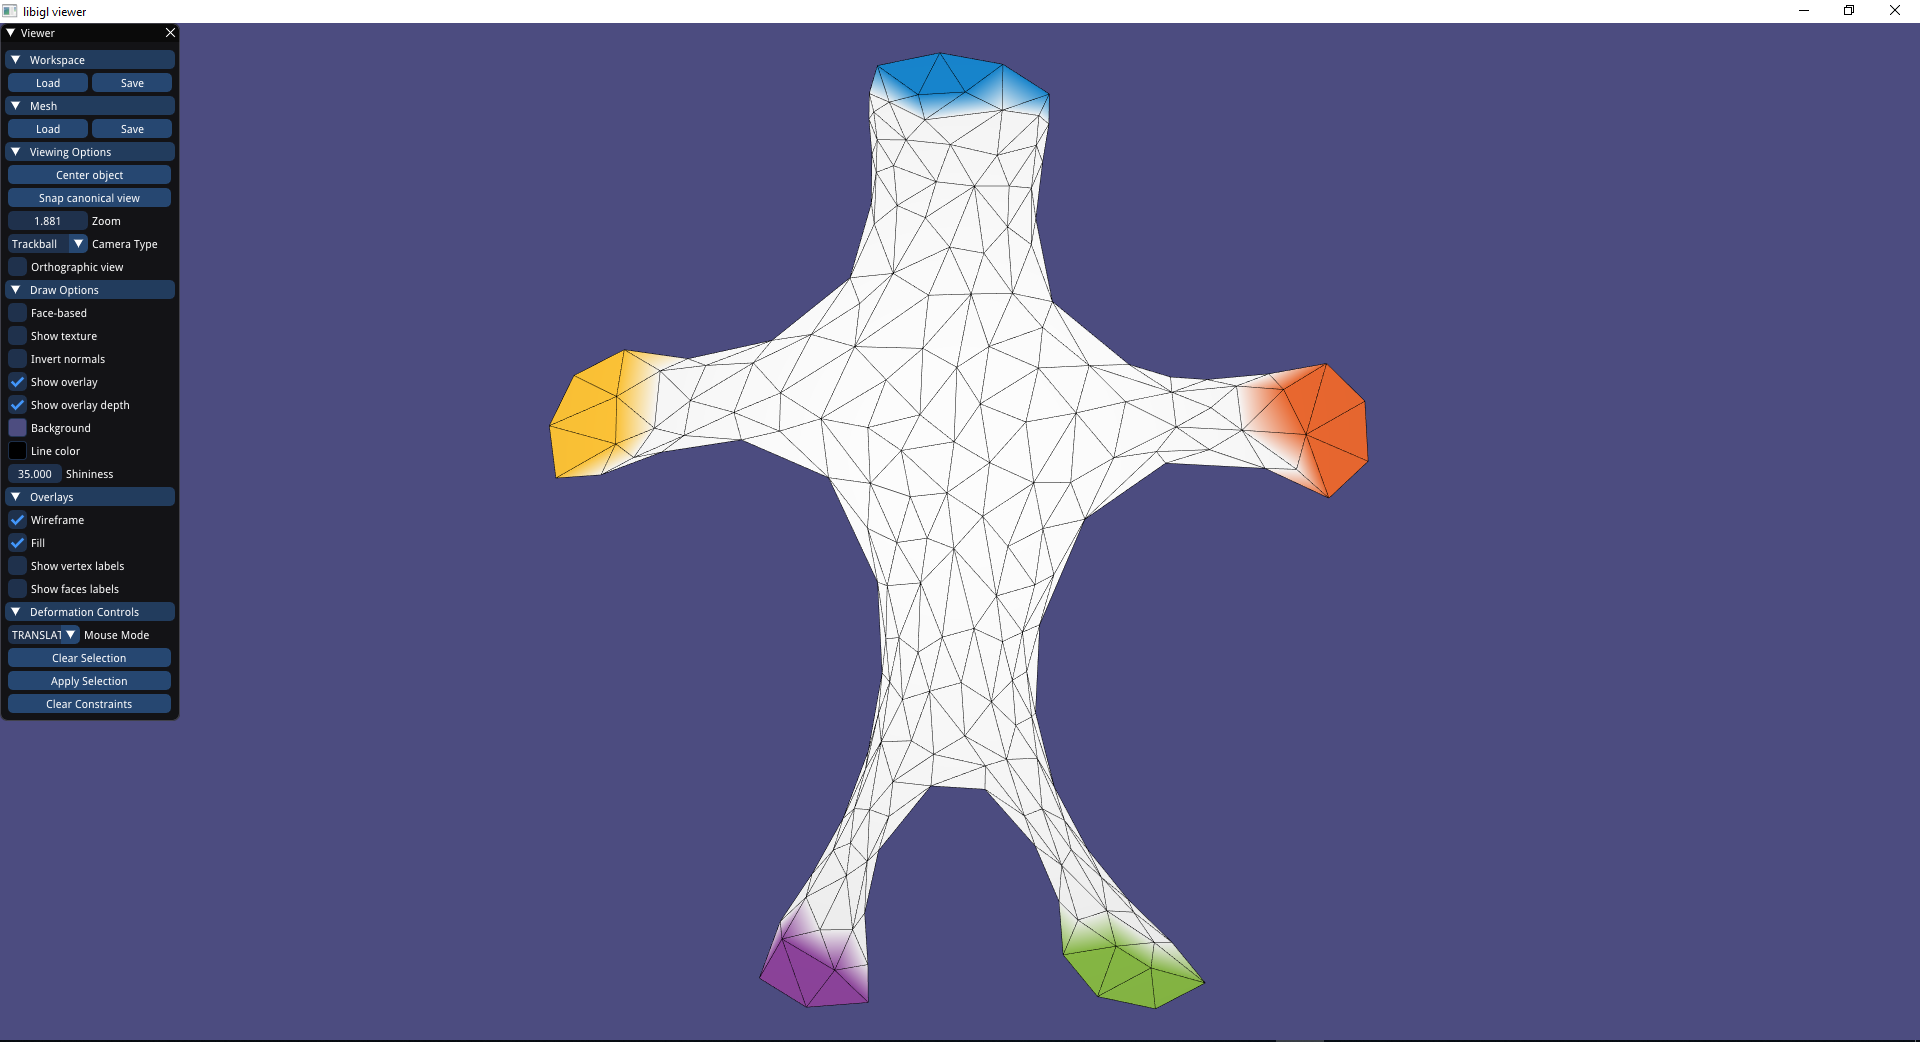
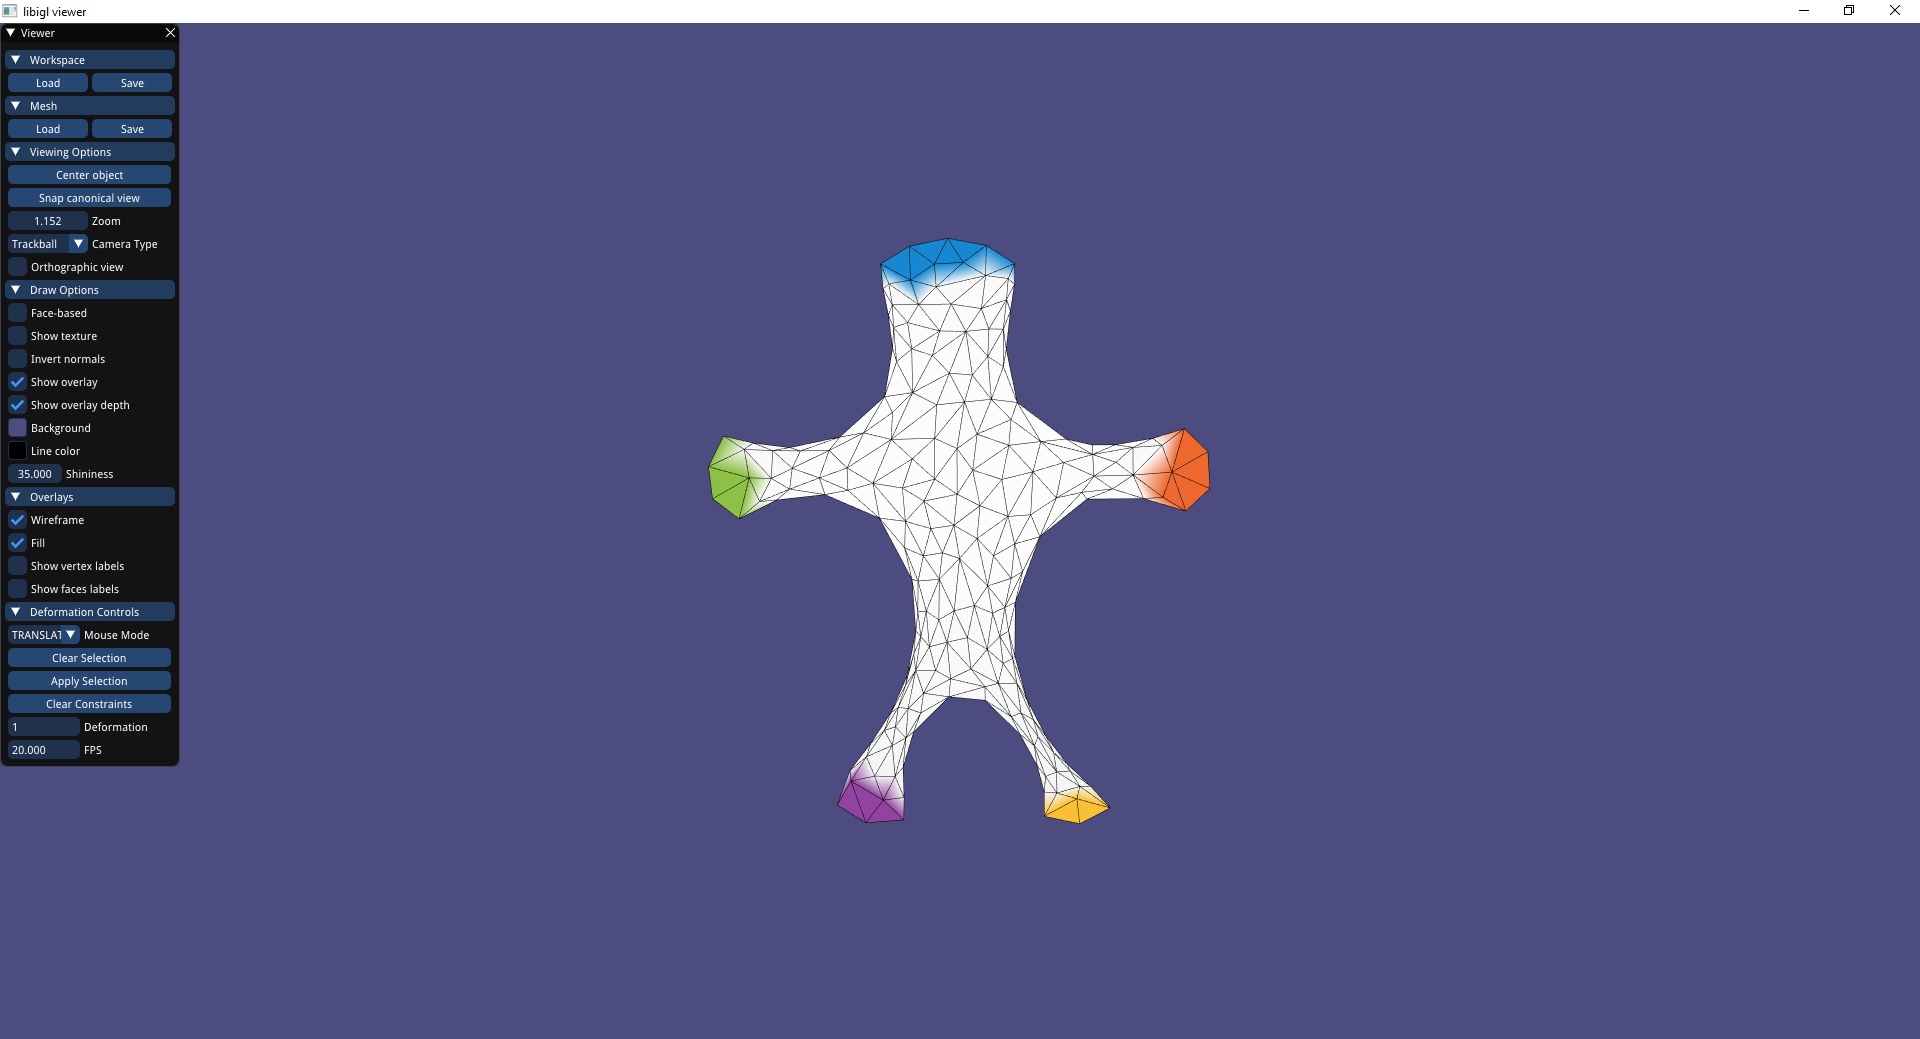
Update

Changed region(s): [[0.0, 0.0308, 1.0, 1.0], [0.0, 0.3388, 0.0938, 0.7392], [0.0, 0.1232, 0.0938, 0.308]]

diff --git a/assignment4/src/main.cpp b/assignment4/src/main.cpp
@@ -7,7 +7,9 @@
 #include <igl/slice_into.h>
 #include <igl/rotate_by_quat.h>
 #include <igl/cotmatrix.h>
-
+#include <igl/per_vertex_normals.h>
+#include <igl/cross.h>
+#include <ctime>
 // ...
 
 #include "Lasso.h"
@@ -48,7 +50,12 @@ Eigen::VectorXi free_vertices(0, 1);
 // fcc and fvv matrix
 SparseMatrix<double> A;
 // Deformation mesh selector
-int Deformation = 0;
+int Deformation = 3;
+// For step 1.4 calculations
+std::vector<std::vector<int>> VV;
+// FPS measurements
+clock_t  oldTime = std::clock();
+float fps = 0;
 
 //centroids of handle regions, #H x1
 Eigen::MatrixXd handle_centroids(0,3);
@@ -96,6 +103,11 @@ SparseMatrix<double> Inverse(SparseMatrix<double> A)
 
 bool solve(Viewer& viewer)
 {
+
+	std::clock_t newTime = std::clock();
+	fps = 1.0 / ((newTime - oldTime) / (double)CLOCKS_PER_SEC);
+	oldTime = newTime;
+
 	/**** Add your code for computing the deformation from handle_vertex_positions and handle_vertices here (replace following line) ****/
 
 	if (Deformation == 0) {
@@ -136,8 +148,71 @@ bool solve(Viewer& viewer)
 	Eigen::MatrixXd b = -1 * A_fc * handle_vertex_positions_previous;
 	MatrixXd v_f = solver.solve(b);
 
+	Eigen::MatrixXd V_S(V.rows(), 3);
+	V_S = V;
+
 	igl::slice_into(v_f, free_vertices, 1, V);
-	
+
+	Eigen::MatrixXd V_B(V.rows(), 3);
+	V_B = V;
+
+	Eigen::MatrixXd d(V.rows(), 3);
+	d = V_S - V_B;
+
+	Eigen::MatrixXd n;
+	igl::per_vertex_normals(V_B, F, n);
+
+	Eigen::MatrixXd x(0, 3);
+	x.setZero(V.rows(), 3);
+
+	Eigen::MatrixXd y(0, 3);
+	y.setZero(V.rows(), 3);
+
+	for (int i = 0; i < V.rows(); i++) {
+
+		Eigen::RowVector3d Vi = V_B.row(i);
+
+		Eigen::RowVector3d ni = n.row(i);
+		ni.normalize();
+
+		for (int j : VV[i]) {
+
+			Eigen::RowVector3d Vj = V_B.row(j);
+
+			Eigen::RowVector3d Vj_temp1;
+			igl::cross(Vj, ni, Vj_temp1);
+			Vj_temp1.normalize();
+
+			Eigen::RowVector3d Vj_temp2;
+			igl::cross(ni, Vj_temp1, Vj_temp2);
+			Vj_temp2.normalize();
+
+			Eigen::RowVector3d Vj_proj = Vj_temp2 * Vj.dot(Vj_temp2);
+
+			if (Vj_proj.norm() > x.row(i).norm()) {
+				x.row(i) = Vj_proj;
+			}
+
+		}
+
+		Eigen::RowVector3d xi;
+		xi = x.row(i);
+		xi.normalize();
+		x.row(i) = xi;
+
+		Eigen::RowVector3d yi;
+		igl::cross(ni, xi, yi);
+		
+		y.row(i) = yi;
+
+		Eigen::RowVector3d di;
+		di = d.row(i);
+
+		di = di.dot(xi) * xi + di.dot(yi) * yi + di.dot(ni) * ni;
+		d.row(i) = di;
+
+	}
+
 	if (Deformation == 1) {
 		return true;
 	}
@@ -150,11 +225,70 @@ bool solve(Viewer& viewer)
 	igl::slice_into(v_f, free_vertices, 1, V);
 	igl::slice_into(handle_vertex_positions, handle_vertices, 1, V);
 
+	Eigen::MatrixXd V_B_tag(V.rows(), 3);
+	V_B_tag = V;
+
+	Eigen::MatrixXd n_tag;
+	igl::per_vertex_normals(V_B_tag, F, n_tag);
+
+	Eigen::MatrixXd x_tag(0, 3);
+	x_tag.setZero(V.rows(), 3);
+
+	Eigen::MatrixXd y_tag(0, 3);
+	y_tag.setZero(V.rows(), 3);
+
+	for (int i = 0; i < V.rows(); i++) {
+
+		Eigen::RowVector3d Vi = V_B_tag.row(i);
+
+		Eigen::RowVector3d ni = n_tag.row(i);
+		ni.normalize();
+
+		for (int j : VV[i]) {
+
+			Eigen::RowVector3d Vj = V_B_tag.row(j);
+
+			Eigen::RowVector3d Vj_temp1;
+			igl::cross(Vj, ni, Vj_temp1);
+			Vj_temp1.normalize();
+
+			Eigen::RowVector3d Vj_temp2;
+			igl::cross(ni, Vj_temp1, Vj_temp2);
+			Vj_temp2.normalize();
+
+			Eigen::RowVector3d Vj_proj = Vj_temp2 * Vj.dot(Vj_temp2);
+
+			if (Vj_proj.norm() > x_tag.row(i).norm()) {
+				x_tag.row(i) = Vj_proj;
+			}
+
+		}
+
+		Eigen::RowVector3d xi;
+		xi = x_tag.row(i);
+		xi.normalize();
+		x_tag.row(i) = xi;
+
+		Eigen::RowVector3d yi;
+		igl::cross(ni, xi, yi);
+
+		y_tag.row(i) = yi;
+
+		Eigen::RowVector3d di;
+		di = d.row(i);
+
+		di = di.dot(xi) * xi + di.dot(yi) * yi + di.dot(ni) * ni;
+		d.row(i) = di;
+
+	}
+
 	if (Deformation == 2) {
 		return true;
 	}
 
 	// 1.4 Transferring high-frequecny details to the deformed surface
+
+	V = V_B_tag + d;
 
 	return true;
 };
@@ -226,6 +360,8 @@ int main(int argc, char *argv[])
 
   A = L_w * Inverse(M) * L_w;
 
+  igl::adjacency_list(F, VV);
+
   igl::opengl::glfw::imgui::ImGuiMenu menu;
   viewer.plugins.push_back(&menu);
 
@@ -260,6 +396,8 @@ int main(int argc, char *argv[])
           }
 
 		  ImGui::InputInt("Deformation", &Deformation, 0, 0);
+
+		  ImGui::InputFloat("FPS", &fps, 0, 0);
 	}
   };
 
@@ -375,7 +513,7 @@ bool callback_mouse_up(Viewer& viewer, int button, int modifier)
 
 bool callback_pre_draw(Viewer& viewer)
 {
-  // initialize vertex colors
+	// initialize vertex colors
   vertex_colors = Eigen::MatrixXd::Constant(V.rows(),3,.9);
 
   // first, color constraints

diff --git a/assignment4/README.md b/assignment4/README.md
@@ -18,36 +18,6 @@ Provide screenshots for 4 different deformed meshes. For each example, provide a
 ##### S'<br/>
 ![alt text](Results/Woody_S'.PNG "Title")
 
-#### Bar<br/>
-##### S<br/>
-![alt text](Results/Bar_S.PNG "Title")
-##### B<br/>
-![alt text](Results/Bar_B.PNG "Title")
-##### B'<br/>
-![alt text](Results/Bar_B'.PNG "Title")
-##### S'<br/>
-![alt text](Results/Bar_S'.PNG "Title")
-
-#### Cactus<br/>
-##### S<br/>
-![alt text](Results/Cactus_S.PNG "Title")
-##### B<br/>
-![alt text](Results/Cactus_B.PNG "Title")
-##### B'<br/>
-![alt text](Results/Cactus_B'.PNG "Title")
-##### S'<br/>
-![alt text](Results/Cactus_S'.PNG "Title")
-
-#### Hand<br/>
-##### S<br/>
-![alt text](Results/Hand_S.PNG "Title")
-##### B<br/>
-![alt text](Results/Hand_B.PNG "Title")
-##### B'<br/>
-![alt text](Results/Hand_B'.PNG "Title")
-##### S'<br/>
-![alt text](Results/Hand_S'.PNG "Title")
-
 #### Note:<br/>
 ##### I Haven't done tasks 1.4 and 1.5<br/>
 
